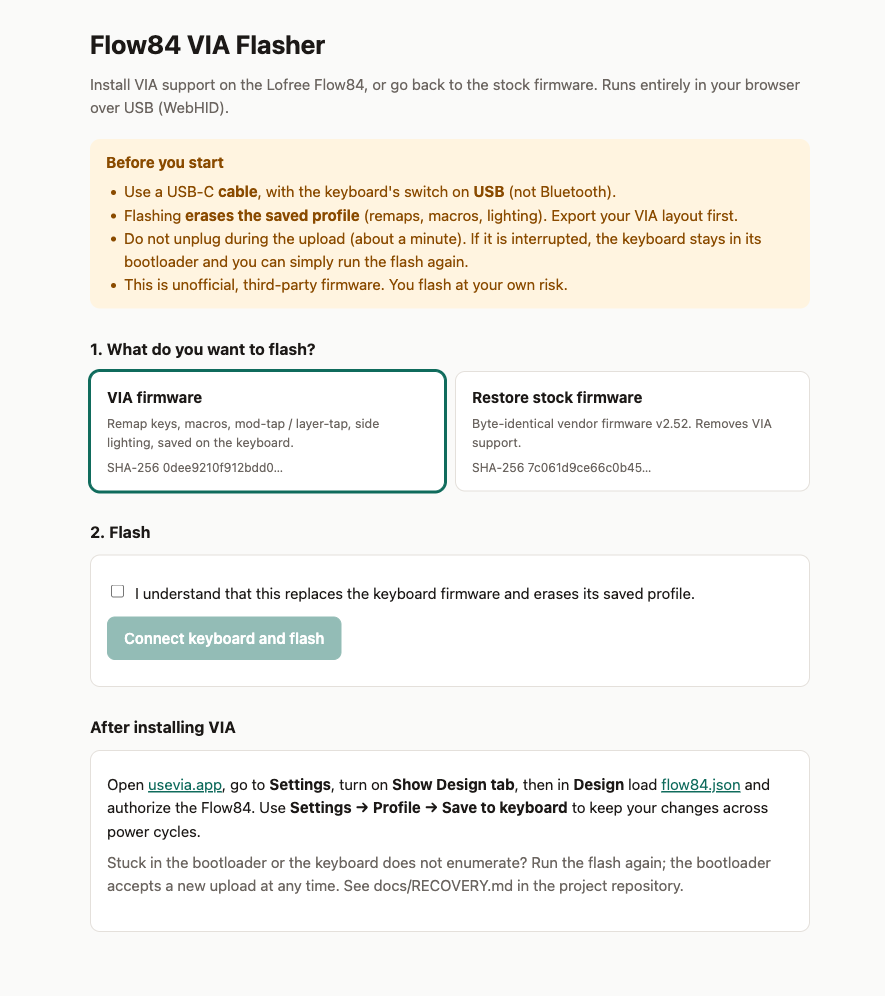
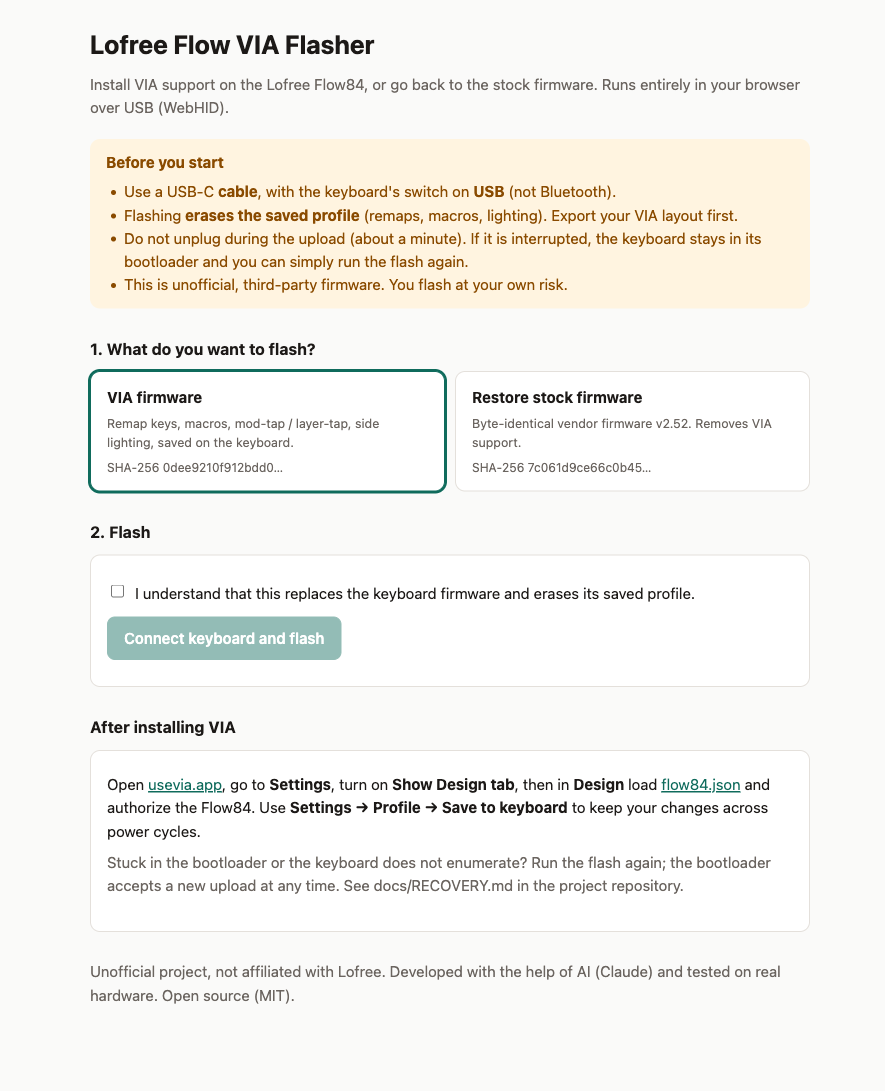
Pure MIT license, stock notice

diff --git a/web/index.html b/web/index.html
@@ -3,6 +3,7 @@
 <head>
 <meta charset="utf-8">
 <meta name="viewport" content="width=device-width, initial-scale=1">
+<link rel="icon" href="data:,">
 <title>Lofree Flow VIA Flasher</title>
 <style>
   :root { color-scheme: light dark; --bg:#fafaf9; --fg:#1c1917; --mut:#6b6560; --card:#fff; --line:#e4e0db;

diff --git a/README.md b/README.md
@@ -131,7 +131,7 @@ community firmware: read the code, check the tests, and flash at your own risk.
 
 `stock/CompxUpgradeBinFile.bin` is the unmodified, vendor-supplied OE915 v2.52 update
 file, included so the patch can be built reproducibly and the keyboard can be restored.
-It is Lofree's property and is not covered by this project's license. If the rights
+It is Lofree's property and is not covered by this project's license (see `stock/NOTICE`). If the rights
 holder objects it will be removed.
 
 ## Acknowledgements
